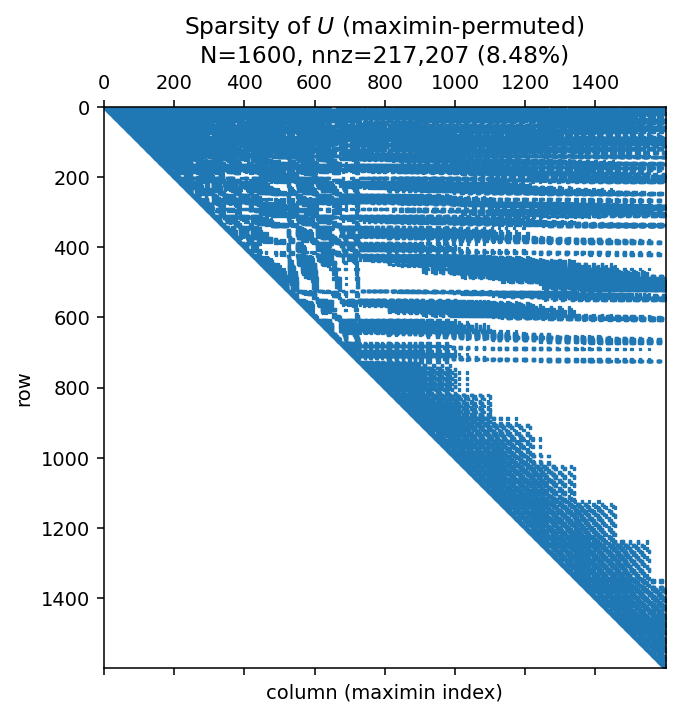
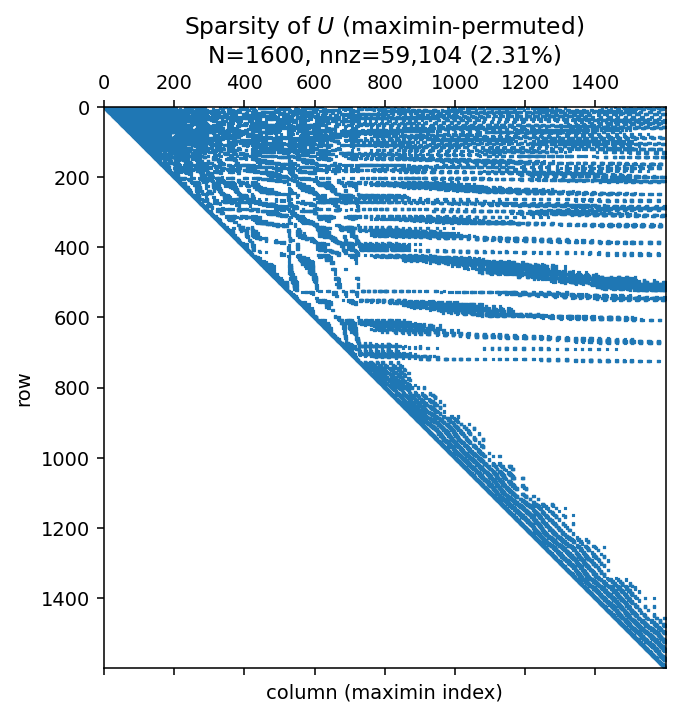
Use rho=3 for the sparsity figure (matches PDE examples)
Drops the density from 8.5% to 2.3% (59k nnz on a 1600-point grid),
which is a more convincing demonstration and matches the rho used by
every example in kolesky.pde.

Changed region(s): [[0.2784, 0.1229, 0.9897, 0.9218], [0.2784, 0.0615, 0.8351, 0.0922]]

diff --git a/docs/make_figures.py b/docs/make_figures.py
@@ -98,7 +98,7 @@ def nonlin_elliptic_figure(h=0.02):
 # ---------------------------------------------------------------------------
 
 
-def sparsity_figure(N_side=40, rho=6.0):
+def sparsity_figure(N_side=40, rho=3.0):
     print(f'[fig 2] sparsity for {N_side}x{N_side} grid …')
     xs = np.linspace(0.02, 0.98, N_side)
     XX, YY = np.meshgrid(xs, xs, indexing='ij')
@@ -129,4 +129,4 @@ def sparsity_figure(N_side=40, rho=6.0):
 if __name__ == '__main__':
     os.environ.setdefault('JAX_PLATFORMS', 'cpu')
     nonlin_elliptic_figure(h=0.02)
-    sparsity_figure(N_side=40, rho=6.0)
+    sparsity_figure(N_side=40, rho=3.0)

diff --git a/README.md b/README.md
@@ -108,7 +108,7 @@ measurements = kl.point_measurements(pts, dims=2)
 
 # 1) build the ordering + sparsity pattern (O(N log N) CPU work)
 implicit = kl.ImplicitKLFactorization.build(
-    kernel, measurements, rho=6.0, k_neighbors=1,
+    kernel, measurements, rho=3.0, k_neighbors=1,
 )
 
 # 2) materialize the factor (runs on GPU if JAX/CUDA is available)
@@ -134,11 +134,11 @@ The factor's upper-triangular sparsity after the maximin permutation
 
 ![U sparsity](docs/U_sparsity.png)
 
-Dense nnz would be `1600² = 2 560 000`. The sparse factor has ~217 000
-nonzeros (8.5 % of the dense triangle). The nnz count grows only
-linearly in N — roughly `O(N · ρᵈ)` total, `O(ρᵈ)` per column — so
-doubling N roughly halves the density fraction. That's the whole point
-of the algorithm.
+Dense nnz would be `1600² = 2 560 000`. The sparse factor has ~59 000
+nonzeros — **2.3 %** of the dense matrix — at the same ρ=3 used by the
+PDE examples below. The nnz count grows only linearly in N — roughly
+`O(N · ρᵈ)` total, `O(ρᵈ)` per column — so doubling N roughly halves
+the density fraction. That's the whole point of the algorithm.
 
 ---
 
